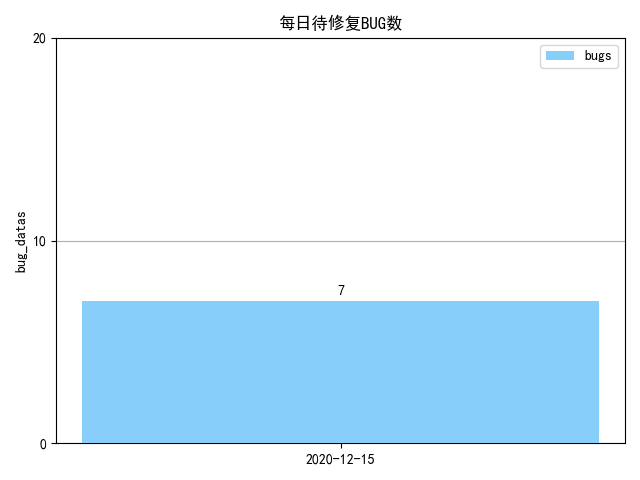
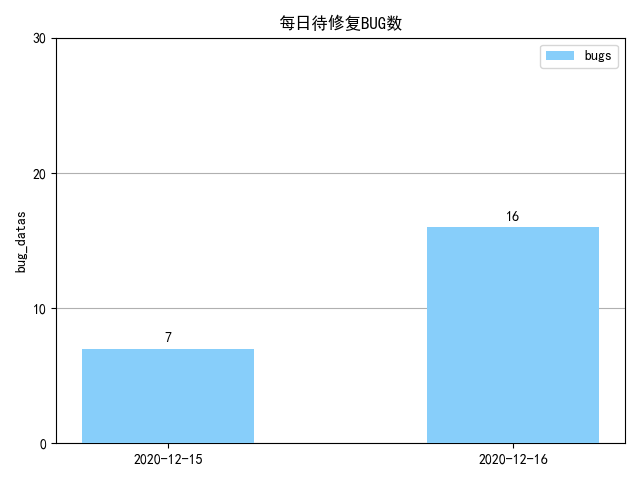
12/16

diff --git a/Tapd/html/developerHtml.html b/Tapd/html/developerHtml.html
@@ -5,6 +5,6 @@
     <title>模板</title>
 </head>
 <body>
-<table style="border-collapse:collapse;word-break:keep-all;white-space:nowrap;font-size:14px;"><tr style="color:#fff;background-color:#48a6fb;font-size:18px;"><th style="border-color:#000;border-width:1px;border-style:solid;padding:15px;text-align:center;">开发人员</th><th style="border-color:#000;border-width:1px;border-style:solid;padding:15px;text-align:center;">今日解决BUG数</th><th style="border-color:#000;border-width:1px;border-style:solid;padding:15px;text-align:center;">待解决BUG数</th></tr><tr><td style="border-color:#000;border-width:1px;border-style:solid;padding:8px;text-align:center;font-size:15px;">吴吉</td><td style="border-color:#000;border-width:1px;border-style:solid;padding:8px;text-align:center;font-size:15px;">1</td><td style="border-color:#000;border-width:1px;border-style:solid;padding:8px;text-align:center;font-size:15px;">1</td></tr><tr><td style="border-color:#000;border-width:1px;border-style:solid;padding:5px;text-align:center;">李星</td><td style="border-color:#000;border-width:1px;border-style:solid;padding:5px;text-align:center;">0</td><td style="border-color:#000;border-width:1px;border-style:solid;padding:5px;text-align:center;">5</td></tr><tr><td style="border-color:#000;border-width:1px;border-style:solid;padding:5px;text-align:center;">孙运</td><td style="border-color:#000;border-width:1px;border-style:solid;padding:5px;text-align:center;">2</td><td style="border-color:#000;border-width:1px;border-style:solid;padding:5px;text-align:center;">0</td></tr><tr><td style="border-color:#000;border-width:1px;border-style:solid;padding:5px;text-align:center;">龙庆玉</td><td style="border-color:#000;border-width:1px;border-style:solid;padding:5px;text-align:center;">1</td><td style="border-color:#000;border-width:1px;border-style:solid;padding:5px;text-align:center;">0</td></tr><tr><td style="border-color:#000;border-width:1px;border-style:solid;padding:5px;text-align:center;">袁章珂</td><td style="border-color:#000;border-width:1px;border-style:solid;padding:5px;text-align:center;">0</td><td style="border-color:#000;border-width:1px;border-style:solid;padding:5px;text-align:center;">0</td></tr><tr><td style="border-color:#000;border-width:1px;border-style:solid;padding:5px;text-align:center;">沈滔</td><td style="border-color:#000;border-width:1px;border-style:solid;padding:5px;text-align:center;">0</td><td style="border-color:#000;border-width:1px;border-style:solid;padding:5px;text-align:center;">0</td></tr><tr><td style="border-color:#000;border-width:1px;border-style:solid;padding:5px;text-align:center;">潘清</td><td style="border-color:#000;border-width:1px;border-style:solid;padding:5px;text-align:center;">0</td><td style="border-color:#000;border-width:1px;border-style:solid;padding:5px;text-align:center;">0</td></tr><tr><td style="border-color:#000;border-width:1px;border-style:solid;padding:5px;text-align:center;">陈梦晗</td><td style="border-color:#000;border-width:1px;border-style:solid;padding:5px;text-align:center;">0</td><td style="border-color:#000;border-width:1px;border-style:solid;padding:5px;text-align:center;">0</td></tr></table>
+<table style="border-collapse:collapse;word-break:keep-all;white-space:nowrap;font-size:14px;"><tr style="color:#fff;background-color:#48a6fb;font-size:18px;"><th style="border-color:#000;border-width:1px;border-style:solid;padding:15px;text-align:center;">开发人员</th><th style="border-color:#000;border-width:1px;border-style:solid;padding:15px;text-align:center;">今日解决BUG数</th><th style="border-color:#000;border-width:1px;border-style:solid;padding:15px;text-align:center;">待解决BUG数</th></tr><tr><td style="border-color:#000;border-width:1px;border-style:solid;padding:8px;text-align:center;font-size:15px;">吴吉</td><td style="border-color:#000;border-width:1px;border-style:solid;padding:8px;text-align:center;font-size:15px;">1</td><td style="border-color:#000;border-width:1px;border-style:solid;padding:8px;text-align:center;font-size:15px;">6</td></tr><tr><td style="border-color:#000;border-width:1px;border-style:solid;padding:5px;text-align:center;">李星</td><td style="border-color:#000;border-width:1px;border-style:solid;padding:5px;text-align:center;">0</td><td style="border-color:#000;border-width:1px;border-style:solid;padding:5px;text-align:center;">2</td></tr><tr><td style="border-color:#000;border-width:1px;border-style:solid;padding:5px;text-align:center;">孙运</td><td style="border-color:#000;border-width:1px;border-style:solid;padding:5px;text-align:center;">1</td><td style="border-color:#000;border-width:1px;border-style:solid;padding:5px;text-align:center;">2</td></tr><tr><td style="border-color:#000;border-width:1px;border-style:solid;padding:5px;text-align:center;">龙庆玉</td><td style="border-color:#000;border-width:1px;border-style:solid;padding:5px;text-align:center;">2</td><td style="border-color:#000;border-width:1px;border-style:solid;padding:5px;text-align:center;">1</td></tr><tr><td style="border-color:#000;border-width:1px;border-style:solid;padding:5px;text-align:center;">袁章珂</td><td style="border-color:#000;border-width:1px;border-style:solid;padding:5px;text-align:center;">1</td><td style="border-color:#000;border-width:1px;border-style:solid;padding:5px;text-align:center;">0</td></tr><tr><td style="border-color:#000;border-width:1px;border-style:solid;padding:5px;text-align:center;">沈滔</td><td style="border-color:#000;border-width:1px;border-style:solid;padding:5px;text-align:center;">2</td><td style="border-color:#000;border-width:1px;border-style:solid;padding:5px;text-align:center;">1</td></tr><tr><td style="border-color:#000;border-width:1px;border-style:solid;padding:5px;text-align:center;">潘清</td><td style="border-color:#000;border-width:1px;border-style:solid;padding:5px;text-align:center;">0</td><td style="border-color:#000;border-width:1px;border-style:solid;padding:5px;text-align:center;">0</td></tr><tr><td style="border-color:#000;border-width:1px;border-style:solid;padding:5px;text-align:center;">陈梦晗</td><td style="border-color:#000;border-width:1px;border-style:solid;padding:5px;text-align:center;">0</td><td style="border-color:#000;border-width:1px;border-style:solid;padding:5px;text-align:center;">0</td></tr><tr><td style="border-color:#000;border-width:1px;border-style:solid;padding:5px;text-align:center;">曾俊</td><td style="border-color:#000;border-width:1px;border-style:solid;padding:5px;text-align:center;">0</td><td style="border-color:#000;border-width:1px;border-style:solid;padding:5px;text-align:center;">1</td></tr><tr><td style="border-color:#000;border-width:1px;border-style:solid;padding:5px;text-align:center;">尹君</td><td style="border-color:#000;border-width:1px;border-style:solid;padding:5px;text-align:center;">0</td><td style="border-color:#000;border-width:1px;border-style:solid;padding:5px;text-align:center;">2</td></tr></table>
 </body>
 </html>

diff --git a/Tapd/html/testerHtml.html b/Tapd/html/testerHtml.html
@@ -5,6 +5,6 @@
     <title>模板</title>
 </head>
 <body>
-<table style="border-collapse:collapse;word-break:keep-all;white-space:nowrap;font-size:14px;"><tr style="color:#fff;background-color:#48a6fb;font-size:18px;"><th style="border-color:#000;border-width:1px;border-style:solid;padding:15px;text-align:center;">测试人员</th><th style="border-color:#000;border-width:1px;border-style:solid;padding:15px;text-align:center;">今日提交BUG数</th><th style="border-color:#000;border-width:1px;border-style:solid;padding:15px;text-align:center;">待验证BUG数</th><th style="border-color:#000;border-width:1px;border-style:solid;padding:15px;text-align:center;">今日关闭BUG数</th></tr><tr><td style="border-color:#000;border-width:1px;border-style:solid;padding:8px;text-align:center;font-size:15px;">伍洋</td><td style="border-color:#000;border-width:1px;border-style:solid;padding:8px;text-align:center;font-size:15px;">5</td><td style="border-color:#000;border-width:1px;border-style:solid;padding:8px;text-align:center;font-size:15px;">0</td><td style="border-color:#000;border-width:1px;border-style:solid;padding:8px;text-align:center;font-size:15px;">0</td></tr><tr><td style="border-color:#000;border-width:1px;border-style:solid;padding:5px;text-align:center;">杨玲</td><td style="border-color:#000;border-width:1px;border-style:solid;padding:5px;text-align:center;">5</td><td style="border-color:#000;border-width:1px;border-style:solid;padding:5px;text-align:center;">3</td><td style="border-color:#000;border-width:1px;border-style:solid;padding:5px;text-align:center;">0</td></tr><tr><td style="border-color:#000;border-width:1px;border-style:solid;padding:5px;text-align:center;">黄超</td><td style="border-color:#000;border-width:1px;border-style:solid;padding:5px;text-align:center;">2</td><td style="border-color:#000;border-width:1px;border-style:solid;padding:5px;text-align:center;">1</td><td style="border-color:#000;border-width:1px;border-style:solid;padding:5px;text-align:center;">0</td></tr></table>
+<table style="border-collapse:collapse;word-break:keep-all;white-space:nowrap;font-size:14px;"><tr style="color:#fff;background-color:#48a6fb;font-size:18px;"><th style="border-color:#000;border-width:1px;border-style:solid;padding:15px;text-align:center;">测试人员</th><th style="border-color:#000;border-width:1px;border-style:solid;padding:15px;text-align:center;">今日提交BUG数</th><th style="border-color:#000;border-width:1px;border-style:solid;padding:15px;text-align:center;">待验证BUG数</th><th style="border-color:#000;border-width:1px;border-style:solid;padding:15px;text-align:center;">今日关闭BUG数</th></tr><tr><td style="border-color:#000;border-width:1px;border-style:solid;padding:8px;text-align:center;font-size:15px;">伍洋</td><td style="border-color:#000;border-width:1px;border-style:solid;padding:8px;text-align:center;font-size:15px;">6</td><td style="border-color:#000;border-width:1px;border-style:solid;padding:8px;text-align:center;font-size:15px;">4</td><td style="border-color:#000;border-width:1px;border-style:solid;padding:8px;text-align:center;font-size:15px;">0</td></tr><tr><td style="border-color:#000;border-width:1px;border-style:solid;padding:5px;text-align:center;">杨玲</td><td style="border-color:#000;border-width:1px;border-style:solid;padding:5px;text-align:center;">5</td><td style="border-color:#000;border-width:1px;border-style:solid;padding:5px;text-align:center;">4</td><td style="border-color:#000;border-width:1px;border-style:solid;padding:5px;text-align:center;">1</td></tr><tr><td style="border-color:#000;border-width:1px;border-style:solid;padding:5px;text-align:center;">黄超</td><td style="border-color:#000;border-width:1px;border-style:solid;padding:5px;text-align:center;">7</td><td style="border-color:#000;border-width:1px;border-style:solid;padding:5px;text-align:center;">3</td><td style="border-color:#000;border-width:1px;border-style:solid;padding:5px;text-align:center;">0</td></tr></table>
 </body>
 </html>

diff --git a/Tapd/main.py b/Tapd/main.py
@@ -84,20 +84,20 @@ def draw_chart(dict, label_name, y_name, title, path):
     plt.show()
 
 
-def draw(list, dict, my_datas):
+def draw(list, dict, my_datas, version):
     # 每日新增BUG数
-    dict1 = {i:getdateNum(my_datas, {"创建时间": i}) for i in list}
+    dict1 = {i:getdateNum(my_datas, {"创建时间": i, '发现版本': version}) for i in list}
     draw_chart(dict1, 'bugs', 'bug_datas', '每日新增bug数', './png/每日新增bug数.png')
 
     # 每日待修复BUG数
     draw_chart(dict, 'bugs', 'bug_datas', '每日待修复BUG数', './png/每日待修复BUG数.png')
 
     # 每日已解决BUG数
-    dict3 = {i: getdateNum(my_datas, {"解决时间": i}) for i in list}
+    dict3 = {i: getdateNum(my_datas, {"解决时间": i, '发现版本': version}) for i in list}
     draw_chart(dict3, 'bugs', 'bug_datas', '每日解决bug数', './png/每日解决bug数.png')
 
     # 每日关闭BUG数
-    dict4 = {i: getdateNum(my_datas, {"关闭时间": i}) for i in list}
+    dict4 = {i: getdateNum(my_datas, {"关闭时间": i, '发现版本': version}) for i in list}
     draw_chart(dict4, 'bugs', 'bug_datas', '每日关闭bug数', './png/每日关闭bug数.png')
 
 
@@ -139,15 +139,15 @@ if __name__ == '__main__':
     activation_bugs = statisticsDta(my_datas,today,version)
 
     # --- 脚本修改的地方 ---
-    # list = ["2020-12-15", today]
-    list = [today]
-    # dict = {"2020-12-15":7, today:activation_bugs}
-    dict = {today:activation_bugs}
+    list = ["2020-12-15", today]
+    # list = [today]
+    dict = {"2020-12-15":7, today:activation_bugs}
+    # dict = {today:activation_bugs}
 
 
-    draw(list, dict, my_datas)
+    draw(list, dict, my_datas, version)
 
-    developer = ["吴吉", "李星", "孙运", "龙庆玉", "袁章珂", "沈滔", "潘清", "陈梦晗"]
+    developer = ["吴吉", "李星", "孙运", "龙庆玉", "袁章珂", "沈滔", "潘清", "陈梦晗", "曾俊", "尹君"]
     tester = ["伍洋", "杨玲", "黄超"]
 
     # 测试

diff --git a/Tapd/sendMessage.py b/Tapd/sendMessage.py
@@ -8,8 +8,8 @@ def sendPNGMessage(png_path):
         "User-Agent": UserAgent().chrome,
         "Content-Type": "application/json"
     }
-    url = "https://qyapi.weixin.qq.com/cgi-bin/webhook/send?key=f24732df-c9fc-4719-9860-e52a67adcfa4"
-    # url = "https://qyapi.weixin.qq.com/cgi-bin/webhook/send?key=77a5ea6c-fbd2-43c3-b053-3fc0f026514b"
+    # url = "https://qyapi.weixin.qq.com/cgi-bin/webhook/send?key=f24732df-c9fc-4719-9860-e52a67adcfa4"
+    url = "https://qyapi.weixin.qq.com/cgi-bin/webhook/send?key=77a5ea6c-fbd2-43c3-b053-3fc0f026514b"
 
     # params = {
     #     "msgtype": "text",
